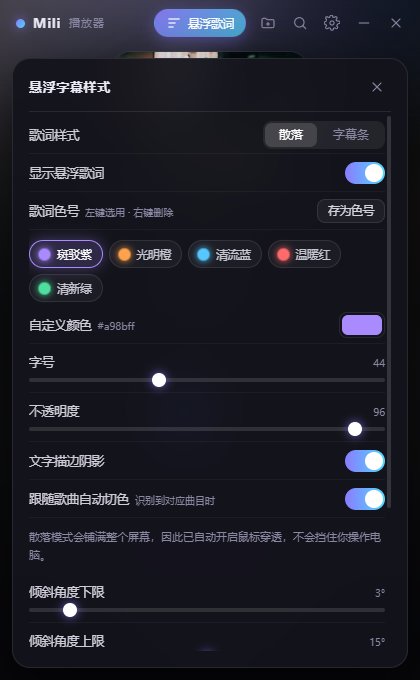
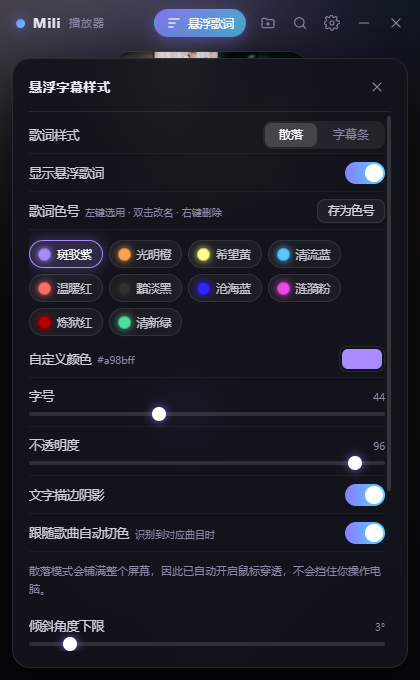
面板提示补上双击改名，重新生成截图

diff --git a/src/renderer/player/index.html b/src/renderer/player/index.html
@@ -163,7 +163,7 @@
       </div>
 
       <div class="row">
-        <span class="label">歌词色号<em>左键选用 · 右键删除</em></span>
+        <span class="label">歌词色号<em>左键选用 · 双击改名 · 右键删除</em></span>
         <button class="mini-btn" id="btnSaveColor">存为色号</button>
       </div>
       <div class="swatches" id="swatches"></div>

diff --git a/README.md b/README.md
@@ -194,6 +194,7 @@ Limbus Company 终战那种效果：每句歌词在**屏幕内随机落点**、*
 
 所有色号与当前选择都存在 `data/settings.json` 里，重启后保持。
 内置色号带一个稳定的 `key`，所以**改名之后升级也认得出**，不会重复塞一个原名的进来。
+即使一个自定义色号改了名、后来又被收进内置列表，也会靠颜色值认领，不会变成两个同色的胶囊。
 
 色号的合并逻辑（补新增 / 不重复 / 改名后不回流 / 排序 / 去重）在
 `src/main/color-presets.js`，有独立的单测：`npm run test:presets`。
